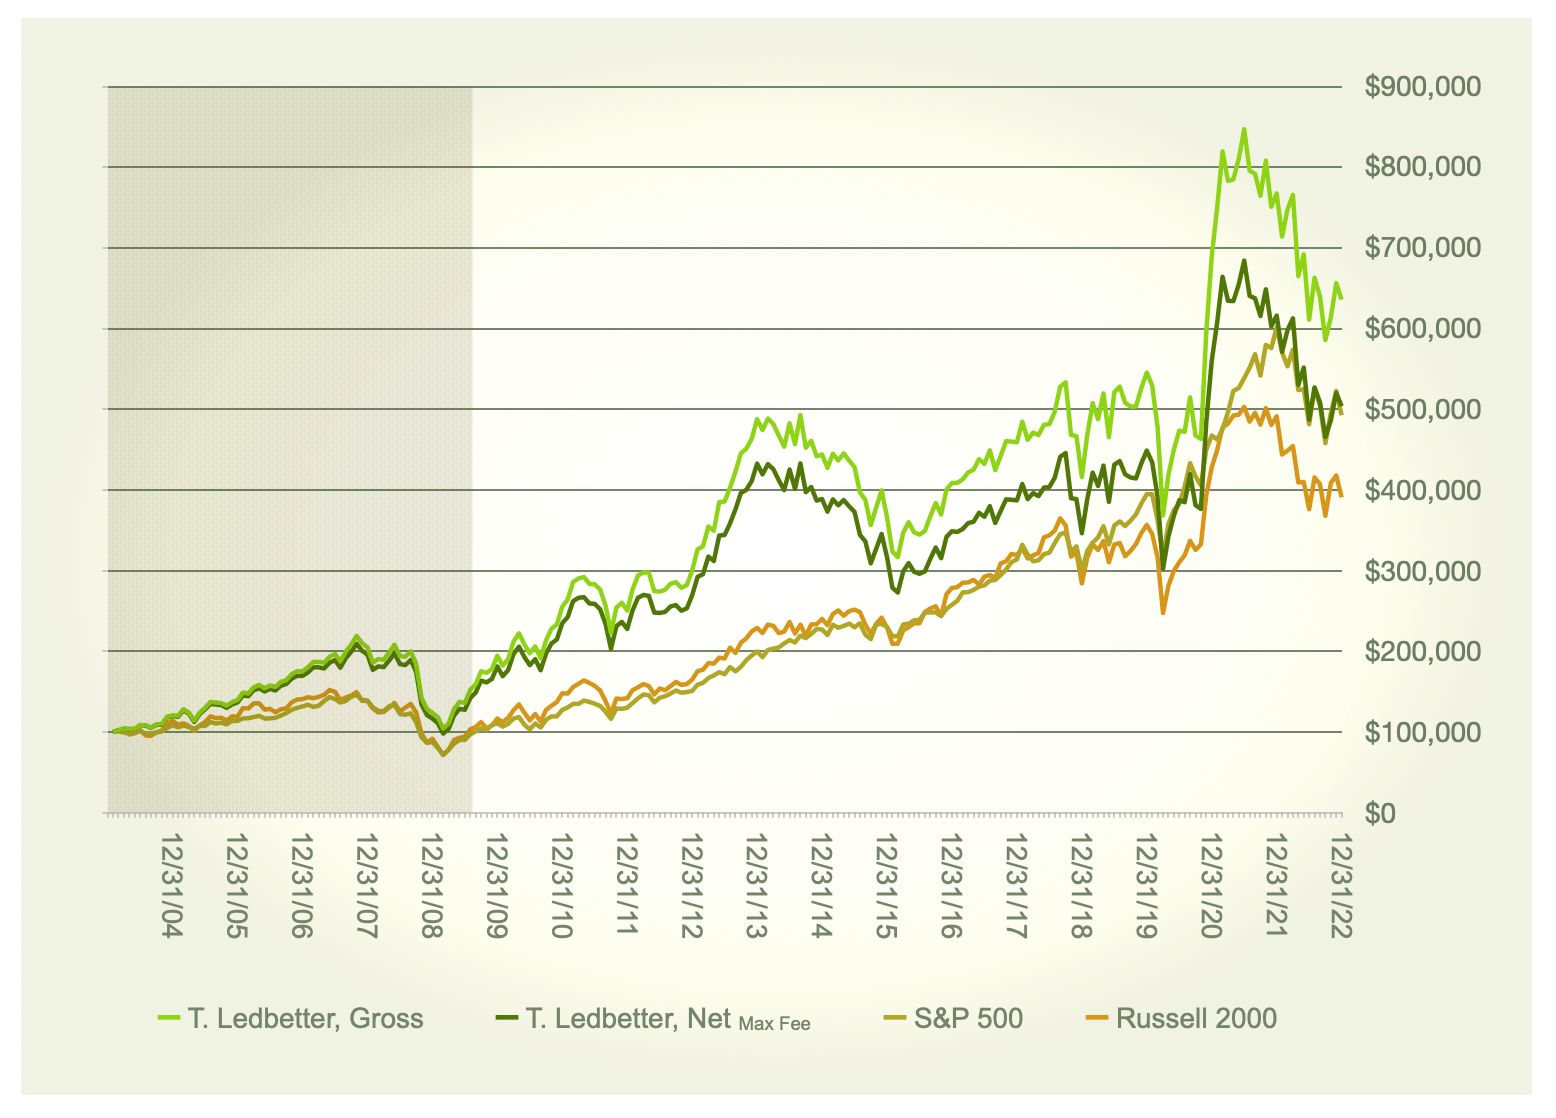
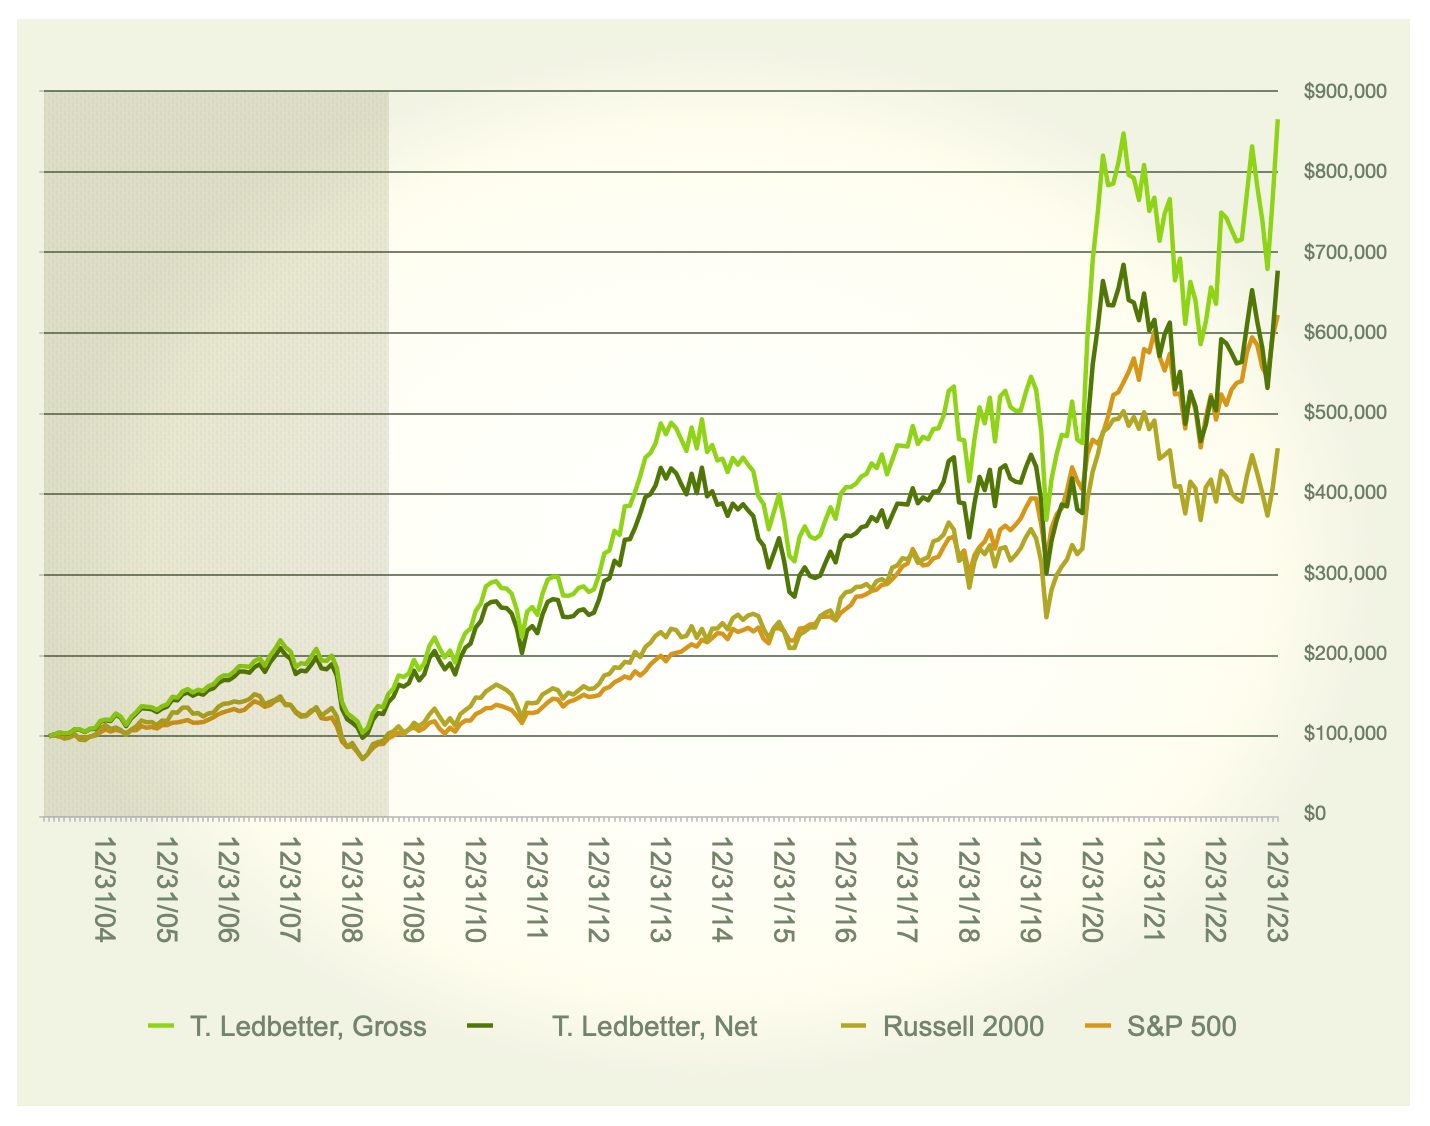
jan 2024 updates

diff --git a/performance.html b/performance.html
@@ -16,7 +16,7 @@ title: Performance
         <br>of Terry Ledbetter, <div style="display:inline-block"> Jr., CFA</div>
       </h1>
 
-      <div class="performSubHead" class="subHead">Growth of $100,000 from 2/3/04 to 12/31/22</div>
+      <div class="performSubHead" class="subHead">Growth of $100,000 from 2/3/04 to 12/31/23</div>
     </div>
   </div><!--end row -->
 
@@ -44,7 +44,7 @@ title: Performance
     <div class="span10 offset1">
       <h1 class="performHead">Historical Performance<br> of Kopion Asset Management, LLC </h1>
 
-      <div class="performSubHead" class="subHead">Growth of $100,000 from 8/23/09 to 12/31/22</div>
+      <div class="performSubHead" class="subHead">Growth of $100,000 from 8/23/09 to 12/31/23</div>
     </div>
   </div><!--end row -->
 
@@ -66,19 +66,74 @@ title: Performance
     <div class="span12" id="perfDis">
       <h3>Performance Disclosures</h3>
 
-      <p>Past performance does not guarantee future results.  Investments with Kopion may lose value.</p>
+<p>Past performance does not guarantee future results. Investments with Kopion may lose value.</p>
 
-<p>Terry Ledbetter, Jr. began managing his first diversified investment account on 2-4-04 while employed by Friedberg Investment Management (FIM).  Mr. Ledbetter left FIM on 7-31-09 and founded Kopion Asset Management, LLC (Kopion), which became a legal entity on 8-24-09.  Importantly, when Mr. Ledbetter founded Kopion, he continued to manage the same accounts that he had been managing while employed by FIM.  The accounts, investment strategy, and investment process all remained the same.  The performance information cited throughout Kopion’s marketing materials includes all of the diversified investment accounts managed directly by Mr. Ledbetter since 2-4-04, which is when he began managing his first diversified investment account.  This information is provided for both Mr. Ledbetter’s entire performance history as well as for the portion of Mr. Ledbetter’s performance history that occurred after Kopion was founded and became a legal entity.  </p>
+<p>
+  Terry Ledbetter, Jr. began managing his first diversified investment account on 2-4-04 while employed by Friedberg
+  Investment Management (FIM). Mr. Ledbetter left FIM on 7-31-09 and founded Kopion Asset Management, LLC (Kopion), which
+  became a legal entity on 8-24-09. Importantly, when Mr. Ledbetter founded Kopion, he continued to manage the same
+  accounts that he had been managing while employed by FIM. The accounts, investment strategy, and investment process all
+  remained the same. The performance information cited throughout Kopion’s marketing materials includes all of the
+  diversified investment accounts managed directly by Mr. Ledbetter since 2-4-04, which is when he began managing his
+  first diversified investment account. This information is provided for both Mr. Ledbetter’s entire performance history
+  as well as for the portion of Mr. Ledbetter’s performance history that occurred after Kopion was founded and became a
+  legal entity.
+  
+</p>
 
-<p>The performance information cited throughout Kopion’s marketing materials has been thoroughly documented, and it has been calculated using normal industry protocols, which are described in more detail below.  This information has not, however, been audited by an independent third party. Dividend and interest income in these accounts was reinvested.  Returns for these accounts have been asset-weighted to calculate historical returns.  Said another way, the accounts were aggregated into a single group and then performance was calculated for that single group.  This group includes some sub-accounts and securities that were carved out of larger accounts in order to exclude assets like mutual funds that Mr. Ledbetter did not manage directly.  Those mutual funds were managed by professionals at third party firms, and Mr. Ledbetter’s involvement was limited to being a passive shareholder of those mutual funds.  In addition, some of those mutual funds followed fixed income strategies, which were very different from the strategy used by Mr. Ledbetter when he was employed by FIM and later at Kopion.  Performance information that includes assets like mutual funds that were not managed directly is available, and Kopion will provide it promptly upon request.</p>
+<p>
+  The performance information cited throughout Kopion’s marketing materials has been thoroughly documented, and it has
+  been calculated using normal industry protocols, which are described in more detail below. This information has not,
+  however, been audited by an independent third party. Dividend and interest income in these accounts was reinvested.
+  Returns for these accounts have been asset-weighted to calculate historical returns. Said another way, the accounts were
+  aggregated into a single group and then performance was calculated for that single group. This group includes some
+  sub-accounts and securities that were carved out of larger accounts in order to exclude assets like mutual funds that
+  Mr. Ledbetter did not manage directly. Those mutual funds were managed by professionals at third party firms, and Mr.
+  Ledbetter’s involvement was limited to being a passive shareholder of those mutual funds. In addition, some of those
+  mutual funds followed fixed income strategies, which were very different from the strategy used by Mr. Ledbetter when he
+  was employed by FIM and later at Kopion. Performance information that includes assets like mutual funds that were not
+  managed directly is available, and Kopion will provide it promptly upon request.
+</p>
 
-<p>Kopion reports its Time Weighted Returns (TWRs).  TWRs make adjustments for deposits and withdrawals so that those transactions do not influence performance results. Consequently, deposits do not increase the return, and withdrawals do not decrease the return.  TWRs thus allow for performance comparisons between Kopion’s (and Mr. Ledbetter’s) history and market indices. </p> 
+<p>
+  Kopion reports its Time Weighted Returns (TWRs). TWRs make adjustments for deposits and withdrawals so that those
+  transactions do not influence performance results. Consequently, deposits do not increase the return, and withdrawals do
+  not decrease the return. TWRs thus allow for performance comparisons between Kopion’s (and Mr. Ledbetter’s) history and
+  market indices.
+</p>
 
-<p>Kopion reports both “gross returns” (which are returns before Kopion’s management fee) and “net returns” (which are returns after deducting Kopion’s management fee).  Kopion’s management fee schedule is graduated, which means that the fee rate begins to decrease after an account’s dollar value exceeds a certain threshold.  The label “Net <sub>Max Fee</sub>” indicates that the net returns being presented reflect Kopion’s maximum fee rate for all periods presented.  The words “net” or “after fees” without the words “Max Fee” in subscript lettering indicates that the net returns being discussed reflect actual fees. </p> 
+<p>
+  Kopion reports both “gross returns” (which are returns before Kopion’s management fee) and “net returns” (which are
+  returns after deducting Kopion’s management fee). Kopion’s management fee schedule is graduated, which means that the
+  fee rate begins to decrease after an account’s dollar value exceeds a certain threshold. The label “Net Max Fee”
+  indicates that the net returns being presented reflect Kopion’s maximum fee rate for all periods presented. The words
+  “net” or “after fees” without the words “Max Fee” in subscript lettering indicates that the net returns being discussed
+  reflect actual fees.
+</p>
 
-<p>Kopion has provided the returns of the S&P 500 and the Russell 2000 indices in order to provide the broader stock market context of Kopion’s (and Mr. Ledbetter’s) returns.  The S&P 500 tracks the performance of relatively large publicly traded companies, and the Russell 2000 tracks the performance of relatively small ones.  Kopion does not “benchmark” its portfolio against indices in the traditional sense of carefully managing the portfolio for comparison against a specific index.  Instead, these two indices are used as broad indicators of the stock market’s performance.  Mr. Ledbetter has primarily focused on small and medium sized firms, but he has also invested in some large companies as well.  This is why Kopion has provided the results of both the S&P 500 and Russell 2000.  These indices cannot be invested in directly, but mutual funds and exchange-traded funds that track these indices (“index funds”) are available in the market. Kopion’s (and Mr. Ledbetter’s) investment strategy carries more risk than investing in an index fund that tracks either the S&P 500 or the Russell 2000.  This is primarily because Kopion’s (and Mr. Ledbetter’s) strategy involves investing in a relatively small number of stocks and those stocks are primarily for small to medium sized companies.  This approach results in greater volatility and greater risk of capital loss than index funds tracking either the S&P 500 or the Russell 2000.</p>
+<p>
+  Kopion has provided the returns of the Russell 2000 and the S&P 500 indices in order to provide the broader stock market
+  context of Kopion’s (and Mr. Ledbetter’s) returns. The Russell 2000 tracks the performance of relatively small publicly
+  traded companies, and the S&P 500 tracks the performance of relatively large ones. Kopion does not “benchmark” its
+  portfolio against indices in the traditional sense of carefully managing the portfolio for comparison against a specific
+  index. Instead, these two indices are used as broad indicators of the stock market’s performance. Mr. Ledbetter has
+  primarily focused on small and medium sized firms, but he has also invested in some large companies as well. This is why
+  Kopion has provided the results of both the Russell 2000 and the S&P 500. These indices cannot be invested in directly,
+  but mutual funds and exchange-traded funds that track these indices (“index funds”) are available in the market.
+  Kopion’s (and Mr. Ledbetter’s) investment strategy carries more risk than investing in an index fund that tracks either
+  the Russell 2000 or the S&P 500. This is primarily because Kopion’s (and Mr. Ledbetter’s) strategy involves investing in
+  a relatively small number of stocks and those stocks are primarily for small to medium sized companies. This approach
+  results in greater volatility and greater risk of capital loss than index funds tracking either the Russell 2000 or the
+  S&P 500.
+</p>
 
-<p>Indices’ performance figures have been obtained from sources believed to be reliable.</p> 
+<p>Indices’ performance figures have been obtained from sources believed to be reliable.</p>
+
+
+
+
+
+
     </div>
   </div><!--end row -->
 </div>
